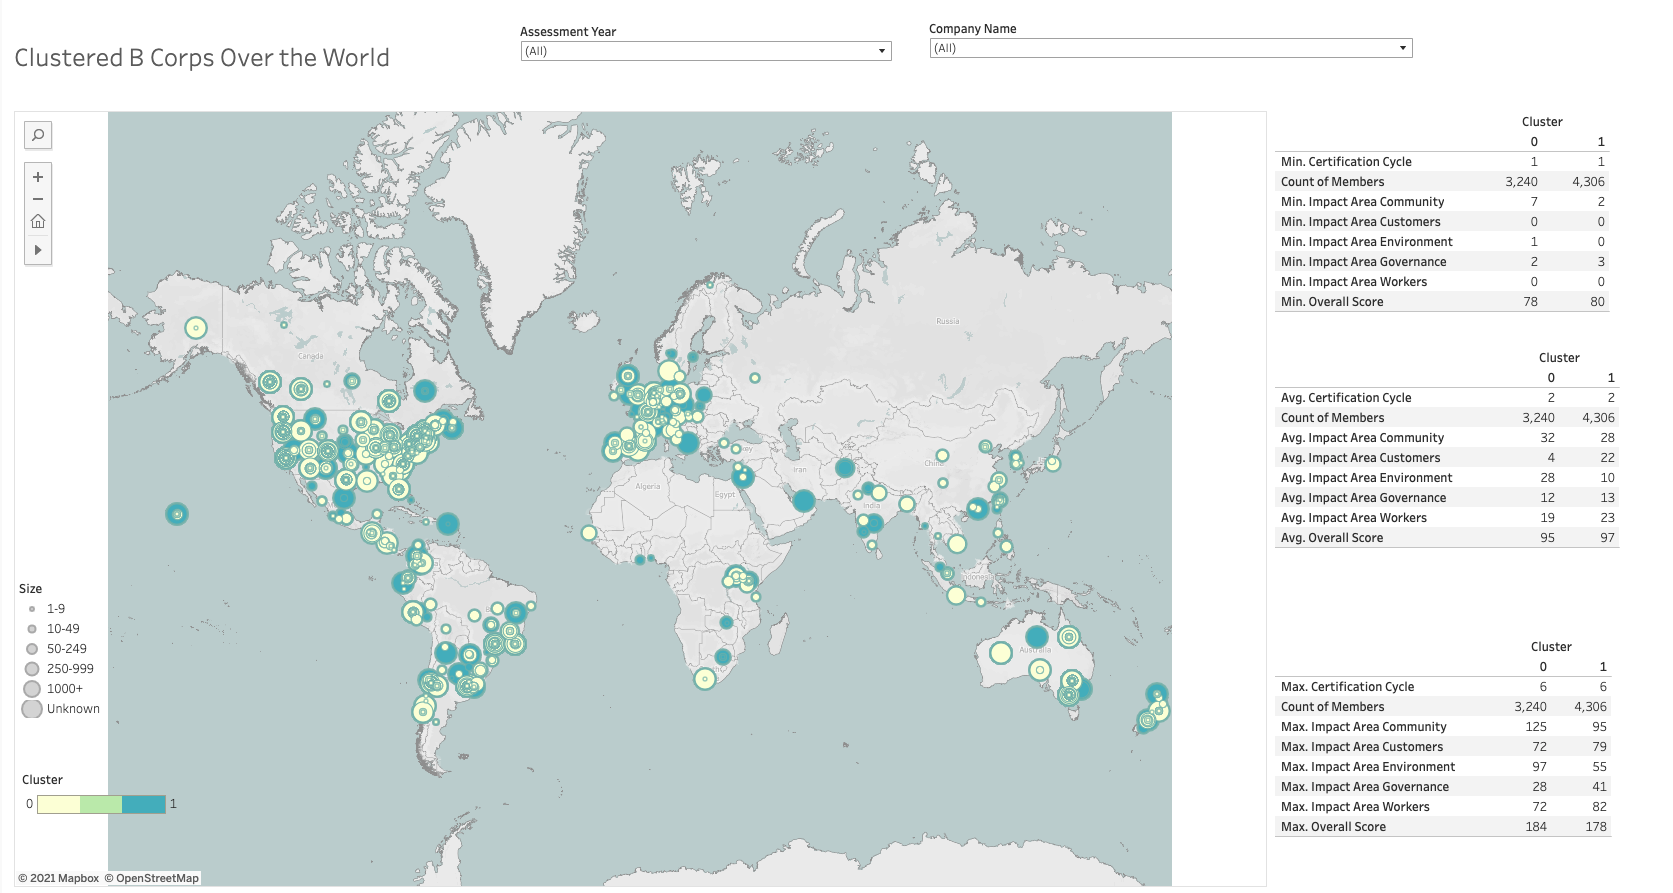
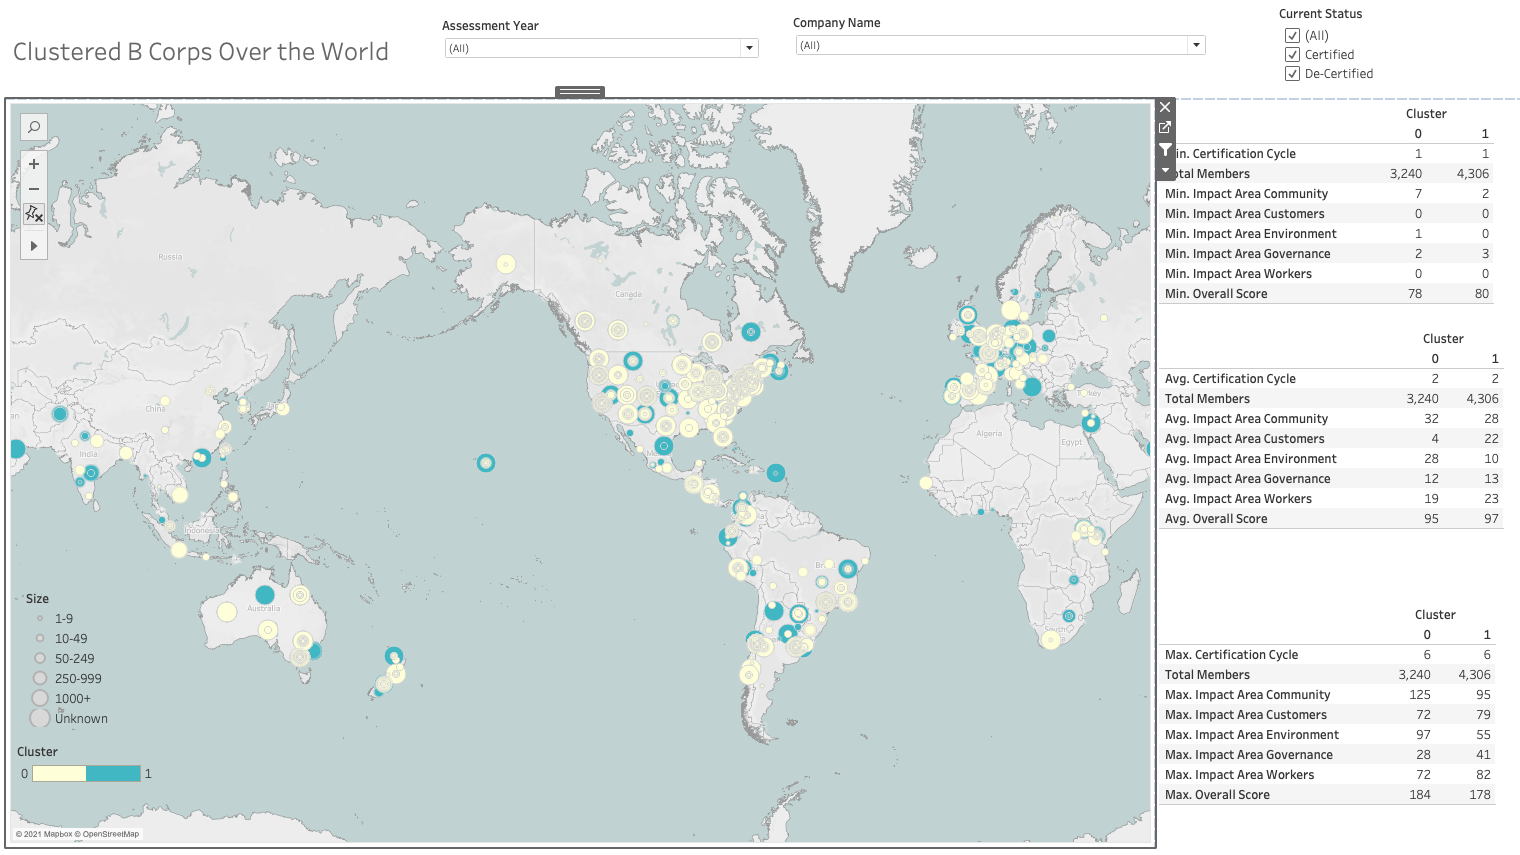
updated readme and images

diff --git a/README.md b/README.md
@@ -2,12 +2,12 @@
 Analyzing B_corps business data from B-labs
 
 ## Scope of Analysis
-The purpose of this analysis is a personal project created so I can explore, learn about and access BCorporation data.
+The purpose of this analysis is a personal project created so I can explore, learn about and access B Corporation data.
 
-The aim is to explore similarities between industries and business size as well as longitudinal data to confirm increase in B Corp certifications year over year.
+The aim is to explore similarities and differences between industries and business size as well as longitudinal data to confirm increase in B Corp certifications year over year.
 
 The three questions I wish to address are:
-1. What business size are most likely to become BCorps Certified?
+1. What business size are most likely to become B Corps Certified?
 2. What trends can be seen by industries/categories becoming certified over the years?
 3. Where are BCorps predominantly located?
 
@@ -57,20 +57,54 @@ The Workers Impact Area evaluates the company's contribution to its employees fi
 
 ## Analysis
 
-B Labs began certifying businesses in 2007. 
-The first business certified was Mal Warwick Donordigital.
-<img src="Resources/images/first_certified.png"></img>
+To clean my data, I used a jupyter notebook, pandas and python language. I inspected each column for data quality and evaluated which columns could potentially be problematic for drawing conclusions.
 
+I then established a pipeline through PgAdmin using PostgreSQL to continue querying the data and setting up a database for the ML notebook to pull from.
 
+I performed a KMeans analysis on the data, dividing it into 2 clusters
 
-<img src="Resources/images/size_time.png"></img>
+In a separate notebook I have analyzed the components of each business size. 
+
+I also performed SQL queries to visualize the data.
 
 ## Results
+
+To answer the following questions, I have spent some time going through the data
+
+
+The dataset is composed of certified and decertified businesses.
 <img src="Resources/images/current_status.png"></img>
 
+B Labs began certifying businesses in 2007. 
+The first business certified was Mal Warwick Donordigital.
+<img src="Resources/images/first_cert_name.png"></img>
+
+The most businesses were assessed in 2017.
 <img src="Resources/images/yearly_assessed.png"></img>
 
+The most new certifications took place in 2016.
+<img src="Resources/images/size_time.png"></img>
+
+
+1. What business size are most likely to become B Corps Certified?
+
+    - The bulk of the businesses are either small (1-9 employees), medium (10-49 employees) or unknown size. 
+
+<img src="Resources/images/size_percents.png"></img>
+
+2. What industries/categories becoming certified over the years?
+
+    - Business Products and Services and Customer Products and Services make up the most of of the industry categories
+
+ <img src="Resources/images/industry_by_year.png"></img>
+
+
+3. Where are BCorps predominantly located?
+
+    - Of the currently certified businesses, these are the top ten countries for B Corps locations.
+
 <img src="Resources/images/top_countries.png"></img>
+
 
 ## Visualization and Presentation
 <a href="https://docs.google.com/presentation/d/1t-suGFPWUANrffg5ZB7ymyHaEpuBMtLCo4PpjYxcfpI/edit#slide=id.gc6f73a04f_0_0"> Google Slides </a>
@@ -79,7 +113,7 @@ The first business certified was Mal Warwick Donordigital.
 
 <a href="https://public.tableau.com/app/profile/stephanie.m.juniper/viz/B_Corp_Study/ImpactAreasbyIndustryCountrybyTime">Impact Scores By Industry and Country</a>
 
-
+<a href="https://public.tableau.com/app/profile/stephanie.m.juniper/viz/BCorpTrends/SizeTrends">Trends by Business Size</a>
 
 ## Data Source and Inspiration
 B Labs provide a data set through data.world
